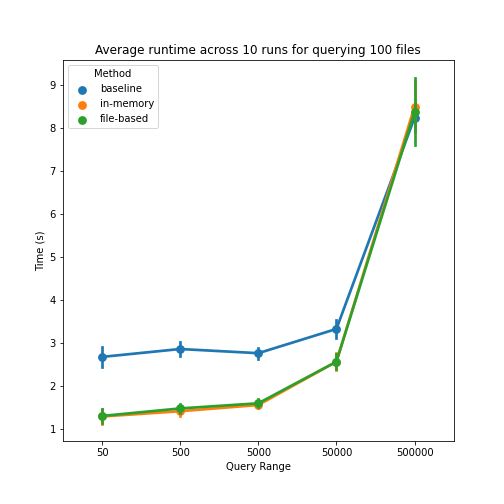
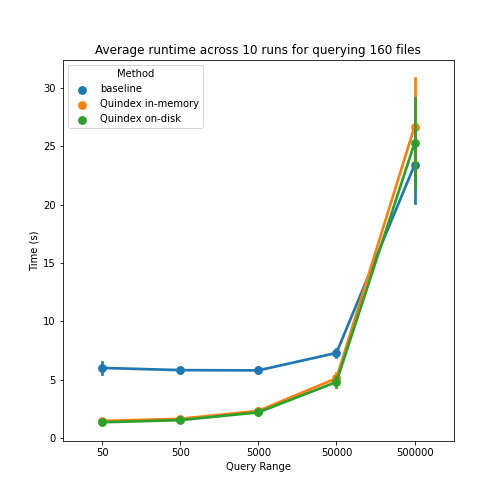
benchmark: update results graph
(cherry picked from commit 182b1ee56bf91628dd93c28a973724dec36ad563)

diff --git a/benchmarks/benchmarking.py b/benchmarks/benchmarking.py
@@ -81,7 +81,7 @@ print("FileParser setup time:", setup_t)
 print("FileParser read time:", read_t)
 
 
-# Quindex 
+# # Quindex 
 
 t = time.time()
 genome = get_genome('mm10')
@@ -106,6 +106,8 @@ read_t = time.time()-t
 print("Quindex setup time:", setup_t)
 print("Quindex in-memory search time:", read_t)
 
+index = EpivizQuindex.EpivizQuindex(genome, base_path=base_path)
+index.from_disk(load = False)
 
 t = time.time()
 for chromosome, start in queries:
